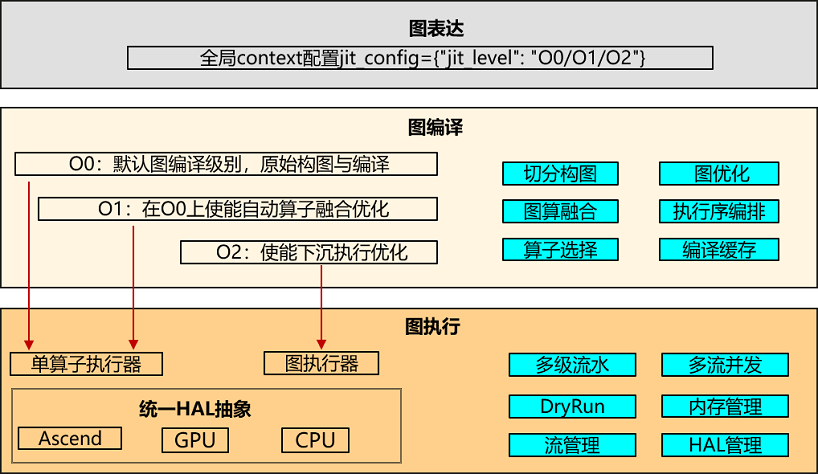
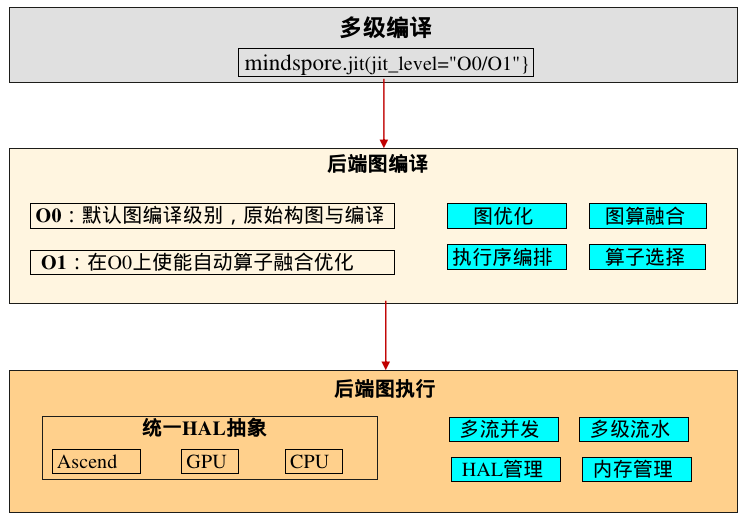
optimize the multi_level_compilation docs

diff --git a/docs/mindspore/source_zh_cn/design/multi_level_compilation.md b/docs/mindspore/source_zh_cn/design/multi_level_compilation.md
@@ -4,11 +4,11 @@
 
 ## 背景
 
-随着深度学习大模型时代的到来，网络规模越来越大，对图编译性能、执行性能和调试调优效率的挑战也越来越大。为此，MindSpore提出多级编译架构，提供O0/O1/O2三档编译执行模式，它们在图优化、算子融合、内存管理以及执行模式等方面有所不同，旨在提供图模式的多样性选择，用户可以根据自己的网络特点和需求，选择最适合的编译执行模式：
+随着深度学习大模型时代的到来，网络规模越来越大，对图编译性能、执行性能和调试调优效率的挑战也越来越大。为此，MindSpore提出多级编译架构，提供O(n)多级编译执行模式，它们在图优化、算子融合、内存管理以及执行模式等方面有所不同，旨在提供图模式的多样性选择，用户可以根据自己的网络特点和需求，选择最适合的编译执行模式：
 
 1. O0模式：这是一个基础的编译执行模式，除必要影响功能的优化外，其他优化均关闭，使用单算子执行的执行方式。因此执行性能可能不是最优，但它的优点是可以保证图的原始结构，方便用户进行调试和理解，编译性能也较好。如下图中的Add和Mul单算子执行。
 2. O1模式：这个模式会进行一些基础的优化，比如常用图优化和自动算子融合优化，使用单算子执行的执行方式。相比O0，由于使能了融合优化，可以提高执行性能，但可能会影响到图的原始结构，因此编译性能和调试调优效率有所损失。如下图中的Add跟Mul融合成一个fused_op执行。
-3. O2模式：这是一个更高级的优化模式，跟O0/O1有本质的区别，使用整图下沉的执行方式。由于增加了图转换开销，因此编译性能损失较大，并且会对图的原始结构产生更大的影响，使得调试和理解变得更加困难。由于没有host调度开销，因此在host bound场景下性能提升较为明显。如下图中的Add跟Mul转换成整图graph下沉执行。
+3. O2模式：这是一个更高级的优化模式，目前没有实现，后续较为深层次的优化可使用该模式。
 
 ![jit_level_example](./images/multi_level_compilation/jit_level_example.png)
 
@@ -16,23 +16,17 @@
 
 ![jit_level_framework](./images/multi_level_compilation/jit_level_framework.png)
 
-1. 图表达：通过context接口jit_config={"jit_level": "O0/O1/O2"}来配置多级编译级别。默认Altas训练产品为O2，其余产品均O0。
-2. 图编译：根据配置的多级编译级别，选择不同的编译模式，其中O0为最基础的原生构图与编译，O1在O0基础增加了自动算子融合功能，O2则主要是整图下沉执行。
-3. 图执行：O0跟O1均为单算子执行器，通过运行时多级流水提升host调度性能；O2为整图执行器，无host调度开销。
+1. 多级编译对外接口：通过[mindspore.jit(jit_level="O0/O1")](https://www.mindspore.cn/docs/zh-CN/master/api_python/mindspore/mindspore.jit.html#mindspore.jit)来配置多级编译级别，jit_level默认为O0，通常我们建议用户使用O0模式进行网络调试调优，调试就绪后，为了更好的性能可以一键开启O1运行网络。
+2. 后端图编译：根据配置的多级编译级别，选择不同的编译模式，O0为最基础的原生构图与编译，O1在O0基础增加了自动算子融合功能，主要功能有图优化、图算融合、算子选择、执行序编排，其中图算融合为O1模式下独有功能。
+3. 后端图执行：O0跟O1模式执行层面是一样的，均使用单算子方式调度执行，主要功能有多流并发、多级流水、HAL管理、内存管理。
 
 ## O0模式介绍
 
-O0为基础的图编译执行模式，除必要影响功能的优化外，其他优化均关闭，使用原生的图结构进行编译和执行，方便调试调优，具备较好的编译性能。下面按章节一一介绍O0基础特性。
-
-### 切分构图
-
-![jit_level_partition](./images/multi_level_compilation/jit_level_partition.png)
-
-MindIR是一种基于图表示的函数式IR，表达的语法较为丰富，支持复杂的控制流表达和异构表达。从MindIR到后端硬件算子执行的过程中，需要经过后端图处理以及运行时调度，尤其硬件能力无法支持复杂控制流以及CPU异构的执行。因此，需要对MindIR进行切分构建子图，将切分后的子图在硬件上做图优化，运行时将优化后的子图和切分的节点连接好下发执行。
+O0为基础的图编译执行模式，除必要影响功能的优化外，其他优化均关闭，使用原生的图结构进行编译和执行，方便调试调优，具备较好的编译性能。下面主要介绍后端图编译相关功能，后端图执行相关功能详见[运行时](https://www.mindspore.cn/docs/zh-CN/master/features/runtime/memory_manager.html)。
 
 ### 图优化
 
-O0模式的图优化较少，基础的优化主要为后端LazyInline和No-task node执行优化，下面一一介绍。
+O0模式的图优化较少，基础的优化主要为后端LazyInline和No-task node执行优化。
 
 - **后端LazyInline**
 
@@ -76,61 +70,7 @@ MindSpore Ascend后端的算子类型有Aclnn kernel/Aclop kernel/Hccl kernel /C
 
 - 首先，优化模块需要解决求解最优算子并发的复杂性问题。由于计算图中的算子数量庞大且相互依赖，找到一个既能最大化并发又能保持计算图逻辑正确性的执行顺序是一个极具挑战性的任务。
 - 其次，内存限制是执行序优化中不可忽视的关键因素。增大并发虽然可以提升计算效率，但往往会显著增加峰值内存需求，从而可能导致内存溢出（OOM）错误，尤其是在资源受限的环境中。因此，优化模块必须权衡并发与内存使用之间的关系，确保在提升并发的同时，不会超出系统的内存容量。
-- MindSpore的执行序调整模块结合了基于规则和基于启发式策略的方式，提供bfs/dfs两种执行序编排算法，以实现对计算图执行顺序的精细调整，从而在保证计算效率的同时，有效应对内存限制和系统稳定性等多重挑战。
-
-### 编译缓存
-
-编译缓存是指在图的首次编译过程中将已经编译过的计算图缓存起来，以便在下一次训练时可以直接使用，而不需要重新编译，主要用于提升集群故障恢复训练效率。大模型大集群训练场景下，由于大集群出现故障概率较大，二次断点续训的频率非常高，再加上大模型的图规模较大，往往图的编译耗时较长。因此，有了图编译缓存功能的加持，能大大提高集群故障恢复训练效率。
-
-![jit_level_compile_cache](./images/multi_level_compilation/jit_level_compile_cache.png)
-
-### 多级流水
-
-多级流水是运行时的关键性能优化功能点，对于一个算子的调度，运行时需要处理InferShape（含更新shape）、Resize（含tiling计算和更新内存大小）和Launch（含内存申请和释放）。如果这些过程在host串行处理的话，极容易导致host处理时间较长，从而导致device执行等待，影响执行性能。为此，我们针对算子的调度实现了多级流水功能，将InferShape、Resize和Launch通过Infer Queue、Resize Queue和Launch Queue三个队列流水并行起来，从而大大提升运行时调度性能：
-
-![jit_level_rt_pipeline](./images/multi_level_compilation/jit_level_rt_pipeline.png)
-
-首算子收集到输入后，只需要将InferShape的task下发到Infer队列，即可将算子的输出数据发给下一个算子，InferShape完成后将该算子的Resize task下发到Resize队列，最后Resize完成后将LaunchKernel task下发到Launch队列。
-
-### 多流并发
-
-在大规模深度学习模型的训练过程中，为了尽量多的做到通信跟计算的overlap，通信和计算多流并发对于执行性能的重要性不言而喻。为了应对这一挑战，MindSpore在其框架中实现了自动流分配和event插入功能，以优化计算图的执行效率和资源利用率。这些功能的引入，不仅提升了计算图的并发能力，还显著减少了设备内存开销，从而在大模型训练中实现了更高的性能和更低的延迟。
-
-![jit_level_multi_stream](./images/multi_level_compilation/jit_level_multi_stream.png)
-
-传统的多流并发方法通常依赖于手动配置，这不仅繁琐且容易出错，而且在面对复杂的计算图时，手动配置往往难以达到最优的并发效果。MindSpore的自动流分配功能通过智能算法，自动识别和分配计算图中的并发机会，将不同的算子分配到不同的流中执行。这种自动化的分配过程不仅简化了用户的操作，还能够在运行时动态调整流分配策略，以适应不同的计算环境和资源状况。
-
-### 内存管理
-
-![jit_level_memory_manage](./images/multi_level_compilation/jit_level_memory_manage.png)
-
-内存是AI模型训练中最为重要的资源，内存管理无疑是深度学习框架中极为关键的功能，负责模型的内存分配和复用，对内存分配释放性能以及内存复用效率的要求都非常高。内存管理体现主要为算子下发前对算子进行内存分配，下发后内存释放为了后面算子复用，关键功能点为内存池和内存复用算法。
-
-**内存池**：作为内存管理的底座，主要使用BestFit最佳适应内存分配算法，支持动态扩充内存块和碎片整理：
-
-![jit_level_memory_pool](./images/multi_level_compilation/jit_level_memory_pool.png)
-
-1. 切分操作：内存分配时，空闲区按其大小排序，找到第一个满足要求的空闲区，按需分配，切分多余部分，插入新的空闲内存块。
-2. 合并操作：内存回收时，相邻的空闲内存块被回收，合并为一个大的空闲内存块。
-3. 扩充操作：内存分配时，当空闲区没有满足要求的空闲内存则通过接口申请一定大小的内存扩充内存池。
-4. 碎片整理：内存分配时，当单个空闲内存不足以分配，但是实际剩余内存足够时会出触发碎片整理从而腾挪出一整块空闲内存。
-
-**内存复用算法**：作为内存管理的核心竞争力，分为静态SOMAS复用和动态引用计数复用，两种算法各有优缺点，更多场景下是两者算法的结合使用，根据网络结构特点按需选择使用：
-
-- 静态SOMAS：SOMAS（Safe Optimized Memory Allocation Solver ）将计算图并行流与数据依赖进行聚合分析，得到算子间祖先关系构建张量全局生命期互斥约束，使用多种启发式算法求解最优的内存静态规划，最小化内存碎片，实现逼近理论极限的内存复用。静态SOMAS为图编译阶段分析图阶段获取最优内存规划，但是动态shape由于编译阶段无法获取真实shape而无法使用。
-- 动态引用计数：执行过程中分配内存，完全动态，编译阶段不提前分析图结构，即来即申请，根据引用计数确保使用完就释放，达到动态复用效果。动态引用计数在执行过程中动态分配，适用于任何场景，但是容易产生碎片。
-
-### 流管理
-
-MindSpore的设备流管理是框架后端中的一项关键功能，旨在高效管理和调度计算设备上的流（Stream），以优化计算图的执行效率和资源利用率。设备流管理通过智能的流分配和调度策略，确保在多计算资源的环境中，计算、通信任务能够高效并发执行，从而提升整体性能。
-
-![jit_level_stream_manage](./images/multi_level_compilation/jit_level_stream_manage.png)
-
-在MindSpore的架构中， **流管理器（Stream Manager）** 扮演着核心角色。它负责流的创建、分配和销毁，确保每个计算任务都能在合适的流上执行。流管理器根据任务的类型、优先级以及设备的负载情况，将任务调度到不同的流上，以实现最佳的资源利用和任务并发度。**事件管理器（Event Manager）** 则负责监控和管理流之间的同步和依赖关系。通过事件的记录和触发，事件管理器确保不同流上的任务能够按照正确的顺序执行，避免数据竞争和资源冲突。事件管理器还支持异步事件（如内存回收）的触发和处理，进一步提升了系统的并发性和响应速度。
-
-### HAL管理
-
-为了后端架构解耦和第三方硬件对接，在MindSpore中提供了硬件抽象层，定义了标准化的硬件对接接口，实现了框架跟硬件的解耦，详见[三方硬件对接](https://www.mindspore.cn/docs/zh-CN/master/design/pluggable_device.html)。
+- MindSpore的执行序调整模块结合了基于规则和基于启发式策略的方式，提供bfs/dfs两种执行序编排算法[mindspore.jit(option={"exec_order":"bfs/dfs"})](https://www.mindspore.cn/docs/zh-CN/master/api_python/mindspore/mindspore.jit.html#mindspore.jit)，以实现对计算图执行顺序的精细调整，从而在保证计算效率的同时，有效应对内存限制和系统稳定性等多重挑战。
 
 ## O1模式介绍
 
@@ -197,12 +137,3 @@ MindSpore AKG的整体框架如上图所示：
 
 1. KernelPacket: 用于在动态shape场景对shape计算进行自动融合和优化；
 2. 通算融合：将通信算子与计算算子进行融合。
-
-## O2模式介绍
-
-O2级别采用图下沉的执行方式，将计算图下沉到Device侧执行。相比于O0和O1模式，O2模式可以基于图的全局信息进行大粒度的图优化，例如图融合、通信算子融合、UB融合等，以及O2下有单独的内存复用策略。最为主要的是O2模式将模型下沉到device侧，消除了算子host与device之间的交互，基本上无host调度开销。不过O2模式也存在一些缺点，例如：
-
-1. O2模式的编译时间较长，特别是在模型规模较大时。
-2. O2模式的执行粒度为计算图，与算子粒度的用户脚本相比，存在一定的差异，因而调试调优难度较高。
-
-因此在中小模型中，容易出现host bound，若想获得极致的执行性能，建议使用O2模式。
